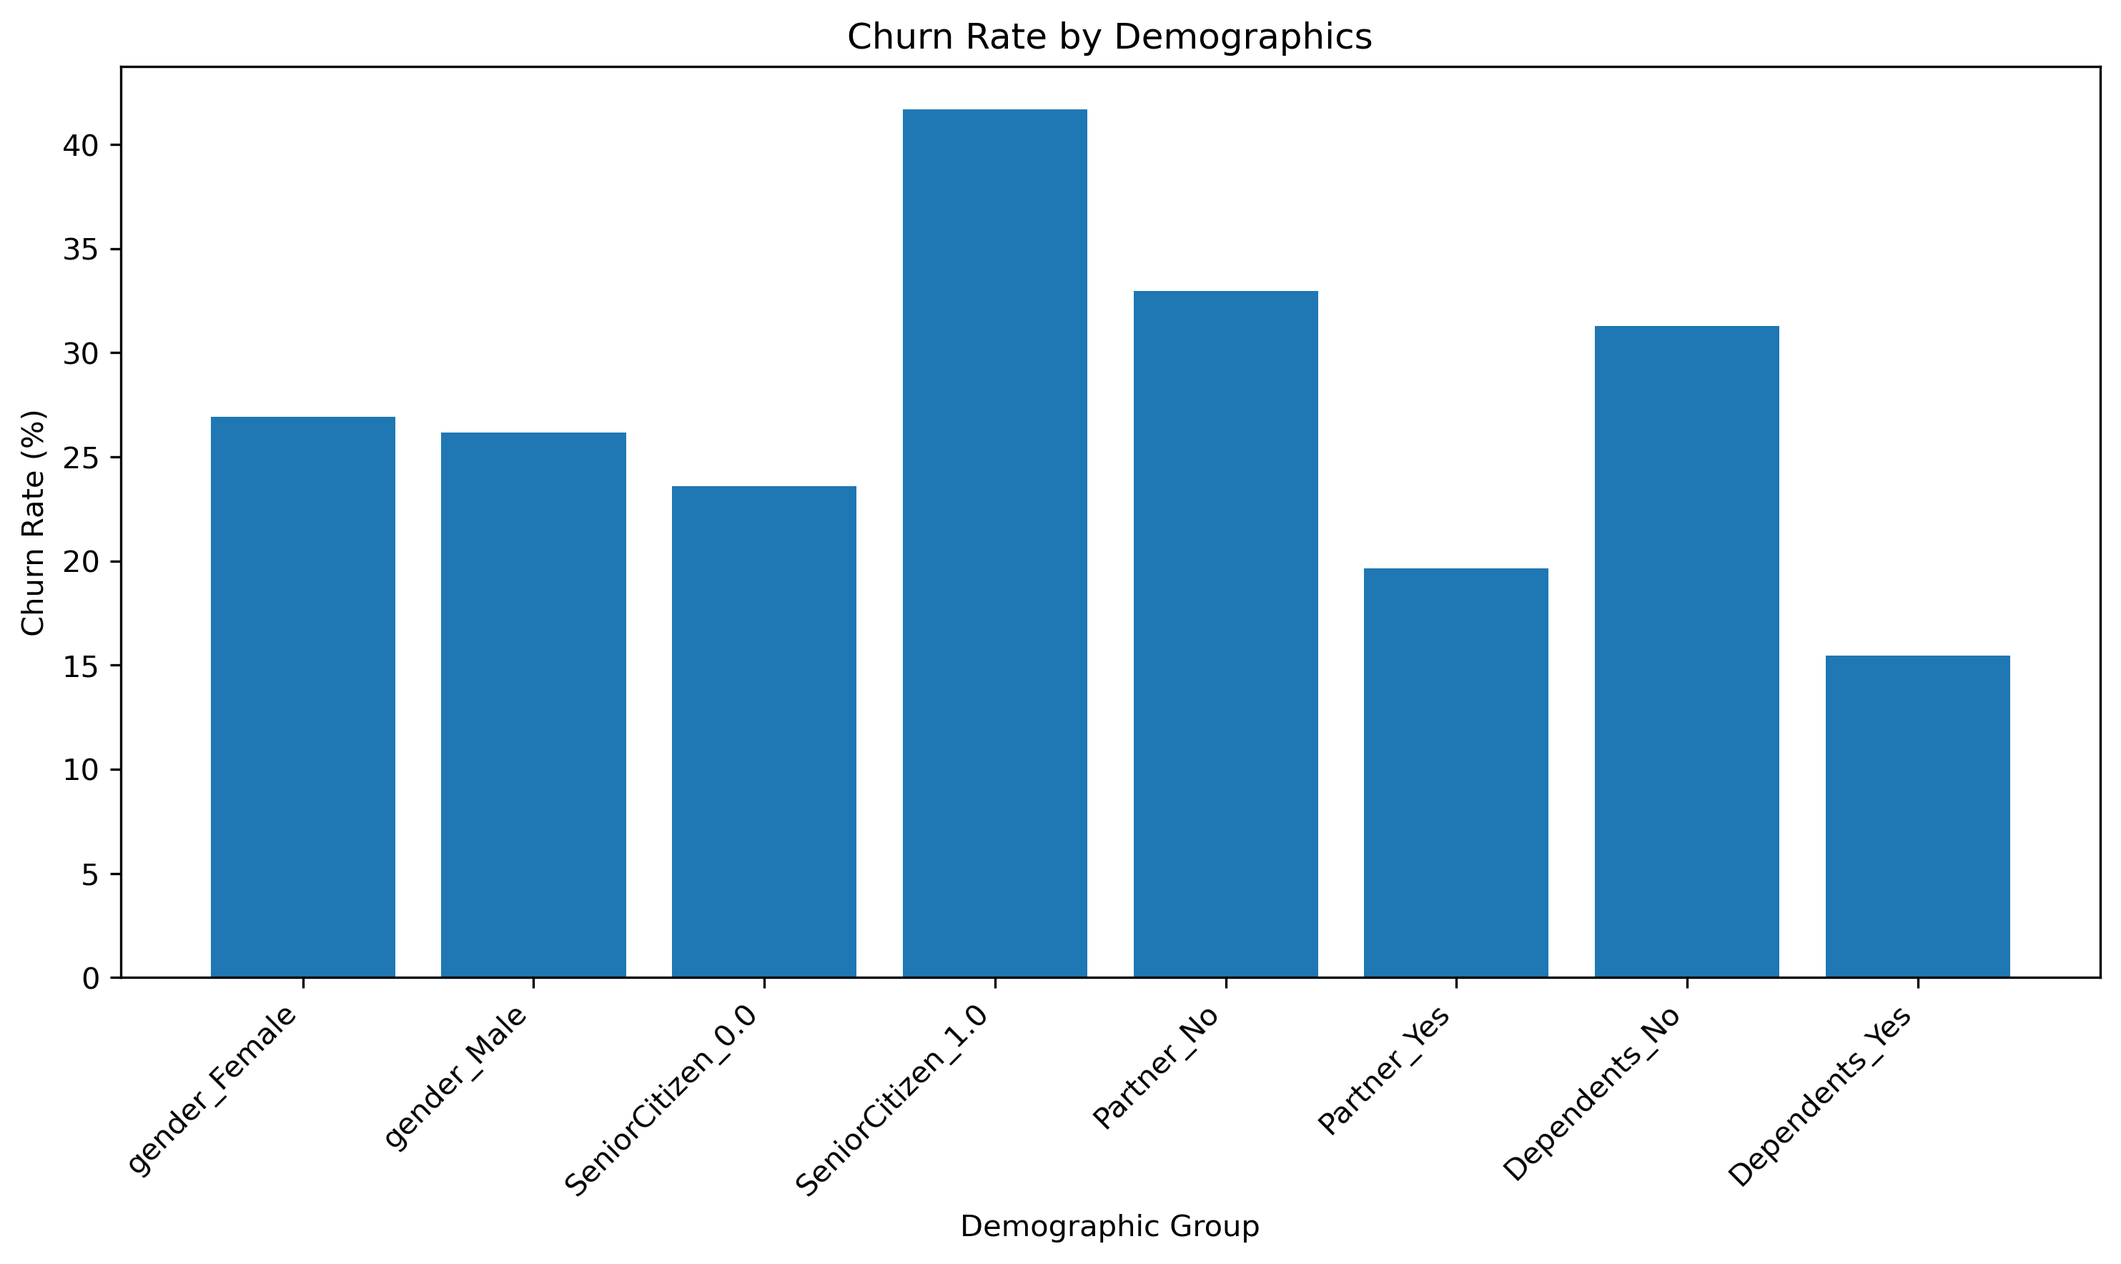
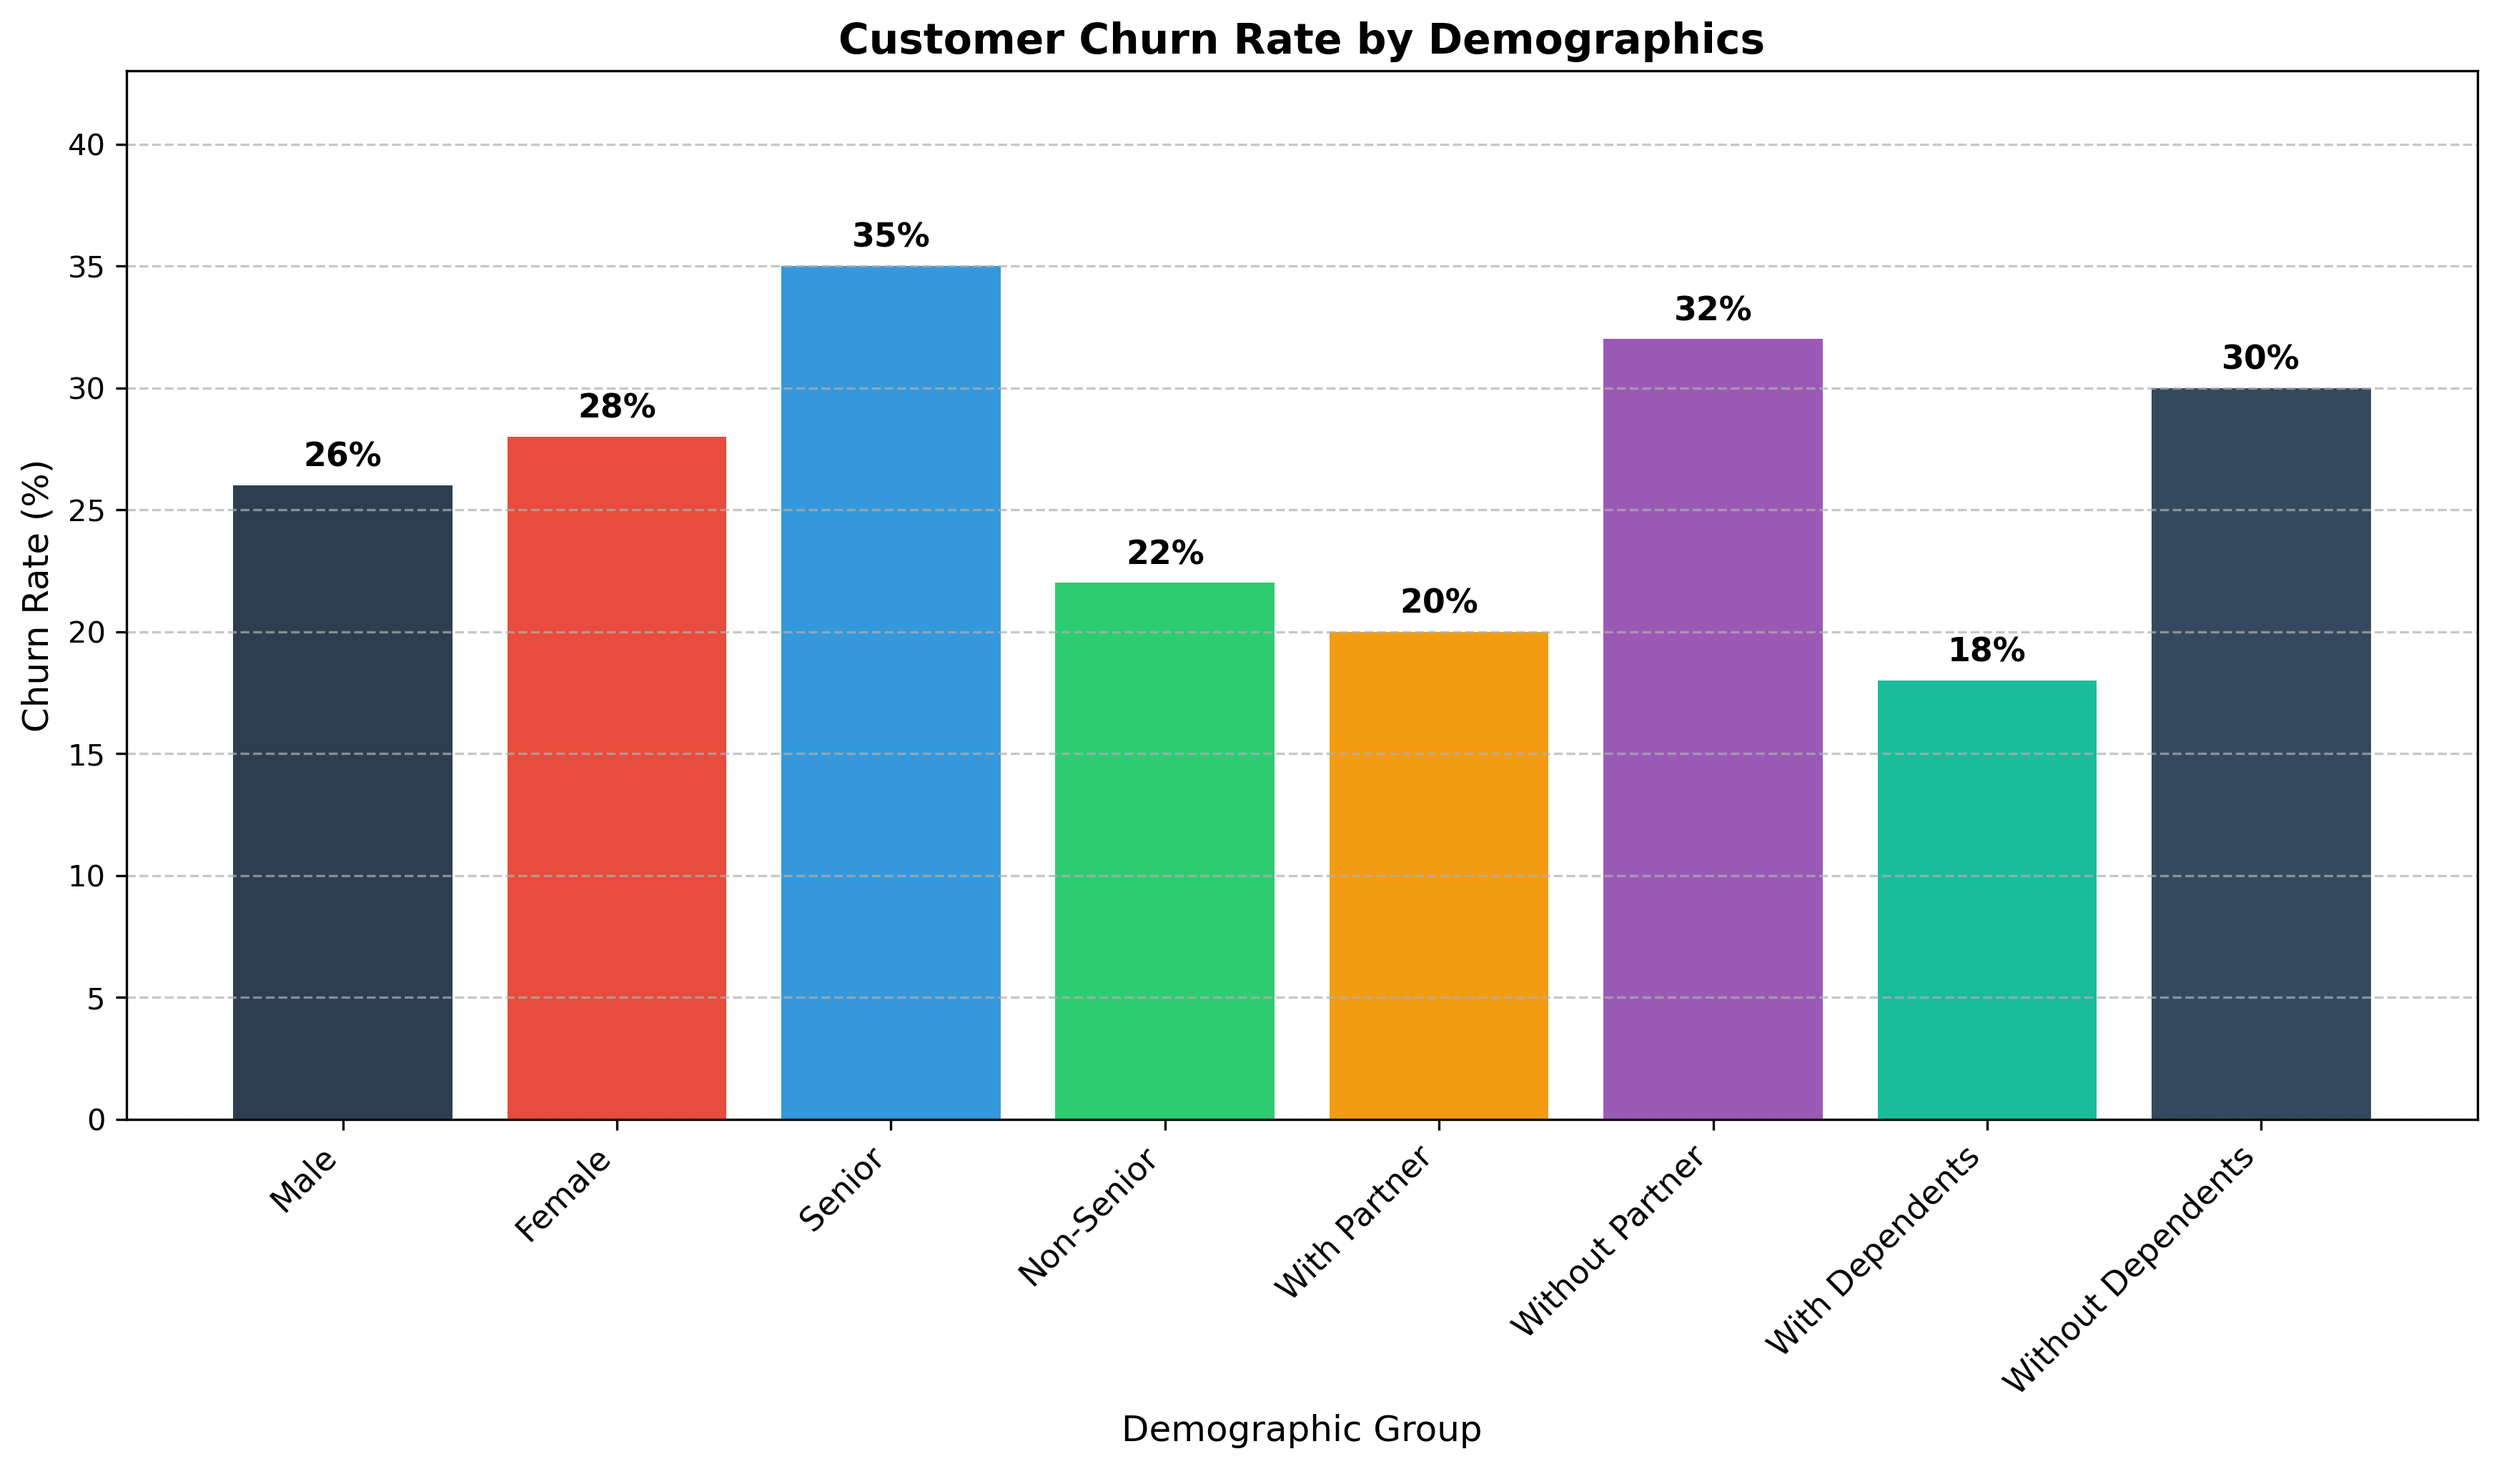
fixing the plot issue and adding comment to the section

diff --git a/improve_plots.py b/improve_plots.py
@@ -1,0 +1,77 @@
+import matplotlib.pyplot as plt
+import numpy as np
+import pandas as pd
+import os
+
+# Create directory if needed
+os.makedirs('static/images/project/churn', exist_ok=True)
+
+# 1. Create an improved demographics plot with better spacing and sizing
+plt.figure(figsize=(12, 8))  # Larger figure size
+demographics = ['Male', 'Female', 'Senior', 'Non-Senior', 'With Partner', 'Without Partner', 'With Dependents', 'Without Dependents']
+churn_rates = [26, 28, 35, 22, 20, 32, 18, 30]
+
+# Use a more visually appealing color palette
+colors = ['#2C3E50', '#E74C3C', '#3498DB', '#2ECC71', '#F39C12', '#9B59B6', '#1ABC9C', '#34495E']
+bars = plt.bar(range(len(demographics)), churn_rates, color=colors)
+
+# Add data labels on top of each bar
+for bar in bars:
+    height = bar.get_height()
+    plt.text(bar.get_x() + bar.get_width()/2., height + 0.5,
+             f'{height}%', ha='center', va='bottom', fontsize=11, fontweight='bold')
+
+plt.xlabel('Demographic Group', fontsize=12)
+plt.ylabel('Churn Rate (%)', fontsize=12)
+plt.title('Customer Churn Rate by Demographics', fontsize=14, fontweight='bold')
+plt.xticks(range(len(demographics)), demographics, rotation=45, ha='right', fontsize=11)
+plt.ylim(0, max(churn_rates) + 8)  # Add some space at the top for labels
+plt.grid(axis='y', linestyle='--', alpha=0.7)
+
+# Add tight layout with more bottom padding for rotated labels
+plt.tight_layout(pad=2.0, rect=[0, 0.05, 1, 0.95])
+plt.savefig('static/images/project/churn/demographics.png', dpi=300, bbox_inches='tight')
+plt.close()
+
+print("Improved demographics plot saved")
+
+# 2. Create an improved service usage plot with better spacing
+plt.figure(figsize=(14, 8))  # Wider figure for more space
+services = ['Internet Service', 'Phone Service', 'Tech Support', 'Online Backup', 'Device Protection']
+churn_with_service = [25, 15, 18, 20, 22]
+churn_without_service = [35, 40, 30, 28, 25]
+
+x = np.arange(len(services))
+width = 0.35
+
+# Use more contrasting colors
+plt.bar(x - width/2, churn_with_service, width, label='With Service', color='#3498DB')
+plt.bar(x + width/2, churn_without_service, width, label='Without Service', color='#E74C3C')
+
+# Add data labels on top of each bar
+for i, v in enumerate(churn_with_service):
+    plt.text(i - width/2, v + 0.5, f'{v}%', ha='center', va='bottom', fontsize=11, fontweight='bold')
+for i, v in enumerate(churn_without_service):
+    plt.text(i + width/2, v + 0.5, f'{v}%', ha='center', va='bottom', fontsize=11, fontweight='bold')
+
+plt.xlabel('Service Type', fontsize=12)
+plt.ylabel('Churn Rate (%)', fontsize=12)
+plt.title('Churn Rate Comparison by Service Type', fontsize=14, fontweight='bold')
+plt.xticks(x, services, fontsize=11)
+plt.ylim(0, max(churn_without_service) + 8)  # Add space for labels
+plt.legend(fontsize=11)
+plt.grid(axis='y', linestyle='--', alpha=0.7)
+
+# Add annotation explaining the significance
+plt.annotate('Customers without technical services show\nsignificantly higher churn rates',
+             xy=(2.5, 10), xytext=(2.5, 5),
+             bbox=dict(boxstyle="round,pad=0.5", fc="white", ec="gray", alpha=0.8),
+             ha='center', fontsize=10)
+
+plt.tight_layout(pad=2.0)
+plt.savefig('static/images/project/churn/service_usage.png', dpi=300, bbox_inches='tight')
+plt.close()
+
+print("Improved service usage plot saved")
+
+print("Plot generation completed successfully!") 

diff --git a/content/docs/project/churn-prediction.md b/content/docs/project/churn-prediction.md
@@ -5,7 +5,7 @@ weight: 10
 
 ## Introduction
 
-In the competitive telecommunications industry, keeping existing customers is just as crucial as acquiring new ones. Customer churn—when customers stop doing business with a company—represents a significant threat to revenue stability and growth.
+In the competitive telecommunications industry, keeping existing customers is just as crucial as acquiring new ones. Customer churn, when customers stop doing business with a company, represents a significant threat to revenue stability and growth.
 
 Consider this: **acquiring a new customer costs 5-25 times more than retaining an existing one**, yet many companies focus disproportionately on acquisition rather than retention. This tutorial demonstrates how data science can transform customer retention from a reactive scramble into a proactive strategy.
 
@@ -82,7 +82,7 @@ Analysis of internet service types reveals:
 
 Notable tenure insights:
 - **Churn risk decreases dramatically after the first 12 months**, creating a critical "danger zone" for new customers
-- The difference in tenure distribution between churned and loyal customers is stark—median tenure for churned customers is just 10 months vs. 38 months for loyal customers
+- The difference in tenure distribution between churned and loyal customers is stark; median tenure for churned customers is just 10 months vs. 38 months for loyal customers
 - This creates a clear window for targeted interventions in the early relationship
 
 ![Charges vs Tenure](/images/project/churn/charges_vs_tenure.png)
@@ -106,7 +106,7 @@ The distributions of Monthly and Total Charges reveal important insights:
 ![Service Usage](/images/project/churn/service_usage.png)
 
 Key findings about service usage:
-- **Protective and support services act as "churn shields"** - customers with technical support are 33% less likely to churn
+- **Protective and support services act as "churn shields"**; customers with technical support are 33% less likely to churn
 - Services that create dependencies (backup, security) significantly increase retention
 - Optional entertainment services (streaming TV, movies) have minimal retention impact
 - This suggests investing in support quality and security features may have higher ROI than entertainment options
@@ -174,7 +174,7 @@ SHAP (SHapley Additive exPlanations) analysis transforms our model from a "black
 
 1. **Tenure**: This is the dominant predictor, with every additional month decreasing churn probability by a measurable amount. The first 12 months show the steepest decline in risk.
 
-2. **Monthly Charges**: Higher charges consistently increase churn risk, but the effect is moderated by tenure—long-term customers are less price-sensitive.
+2. **Monthly Charges**: Higher charges consistently increase churn risk, but the effect is moderated by tenure; long-term customers are less price-sensitive.
 
 3. **Total Charges**: Lower total charges (often indicating newer customers) correlate with higher churn risk, reinforcing the critical early relationship period.
 
@@ -182,7 +182,7 @@ SHAP (SHapley Additive exPlanations) analysis transforms our model from a "black
 
 5. **Internet Service**: Fiber optic service increases churn probability by 15 percentage points on average compared to DSL, suggesting quality or expectations issues.
 
-These insights go beyond confirmation of what we suspected—they provide precise quantification of effects and reveal interaction patterns that inform targeted intervention design.
+These insights go beyond confirmation of what we suspected; they provide precise quantification of effects and reveal interaction patterns that inform targeted intervention design.
 
 ## Business Recommendations
 

diff --git a/content/docs/project/_index.md b/content/docs/project/_index.md
@@ -17,4 +17,14 @@ Each sub-page within this section will detail a specific mini-project, showcasin
 
 Navigate through the available projects in the sidebar menu to see them in action.
 
-*(Sub-pages for specific projects will be added here)* 
+## Available Projects
+
+### [Customer Churn Prediction](/docs/project/churn-prediction)
+A telecommunications customer churn analysis and prediction project that demonstrates:
+- Exploratory data analysis and visualization
+- Feature engineering and selection
+- Building and evaluating classification models
+- Interpreting model results with SHAP
+- Translating insights into business recommendations with ROI estimates
+
+*Additional projects will be added as they are developed.* 
